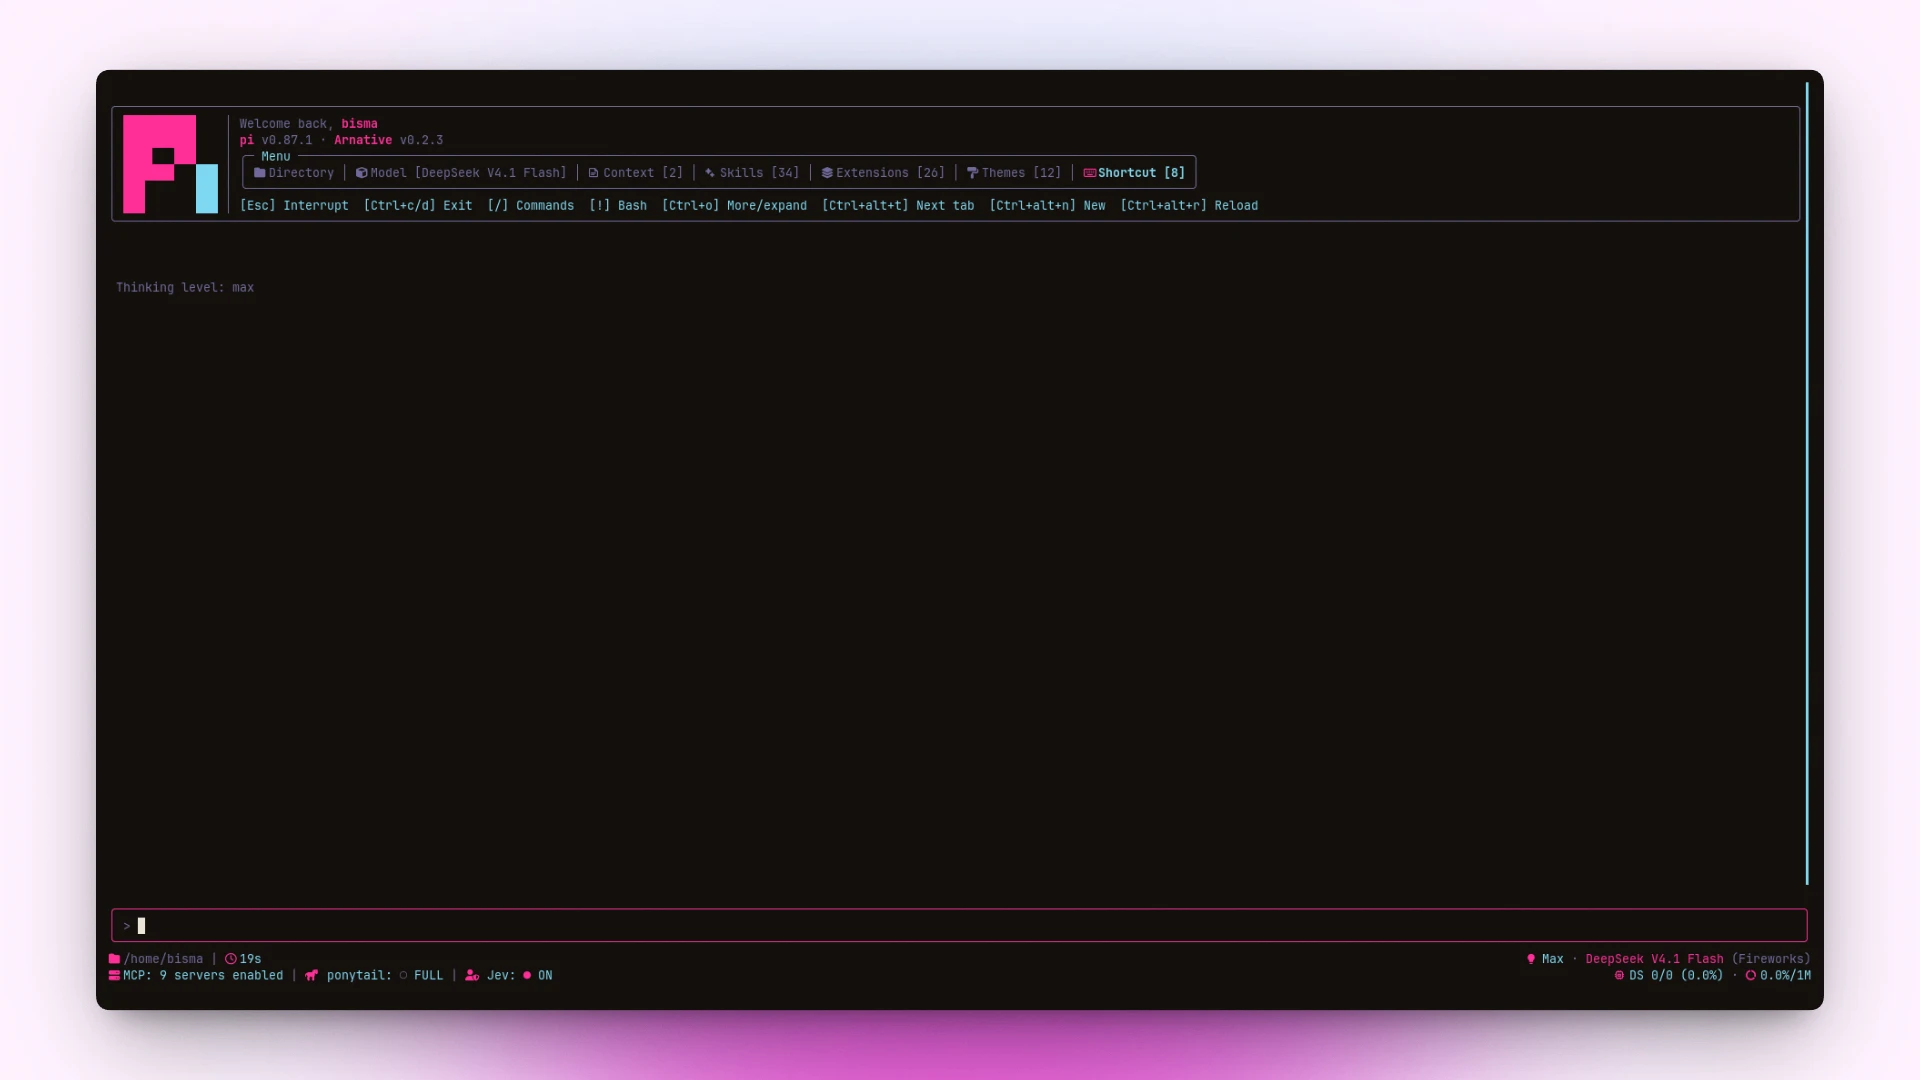
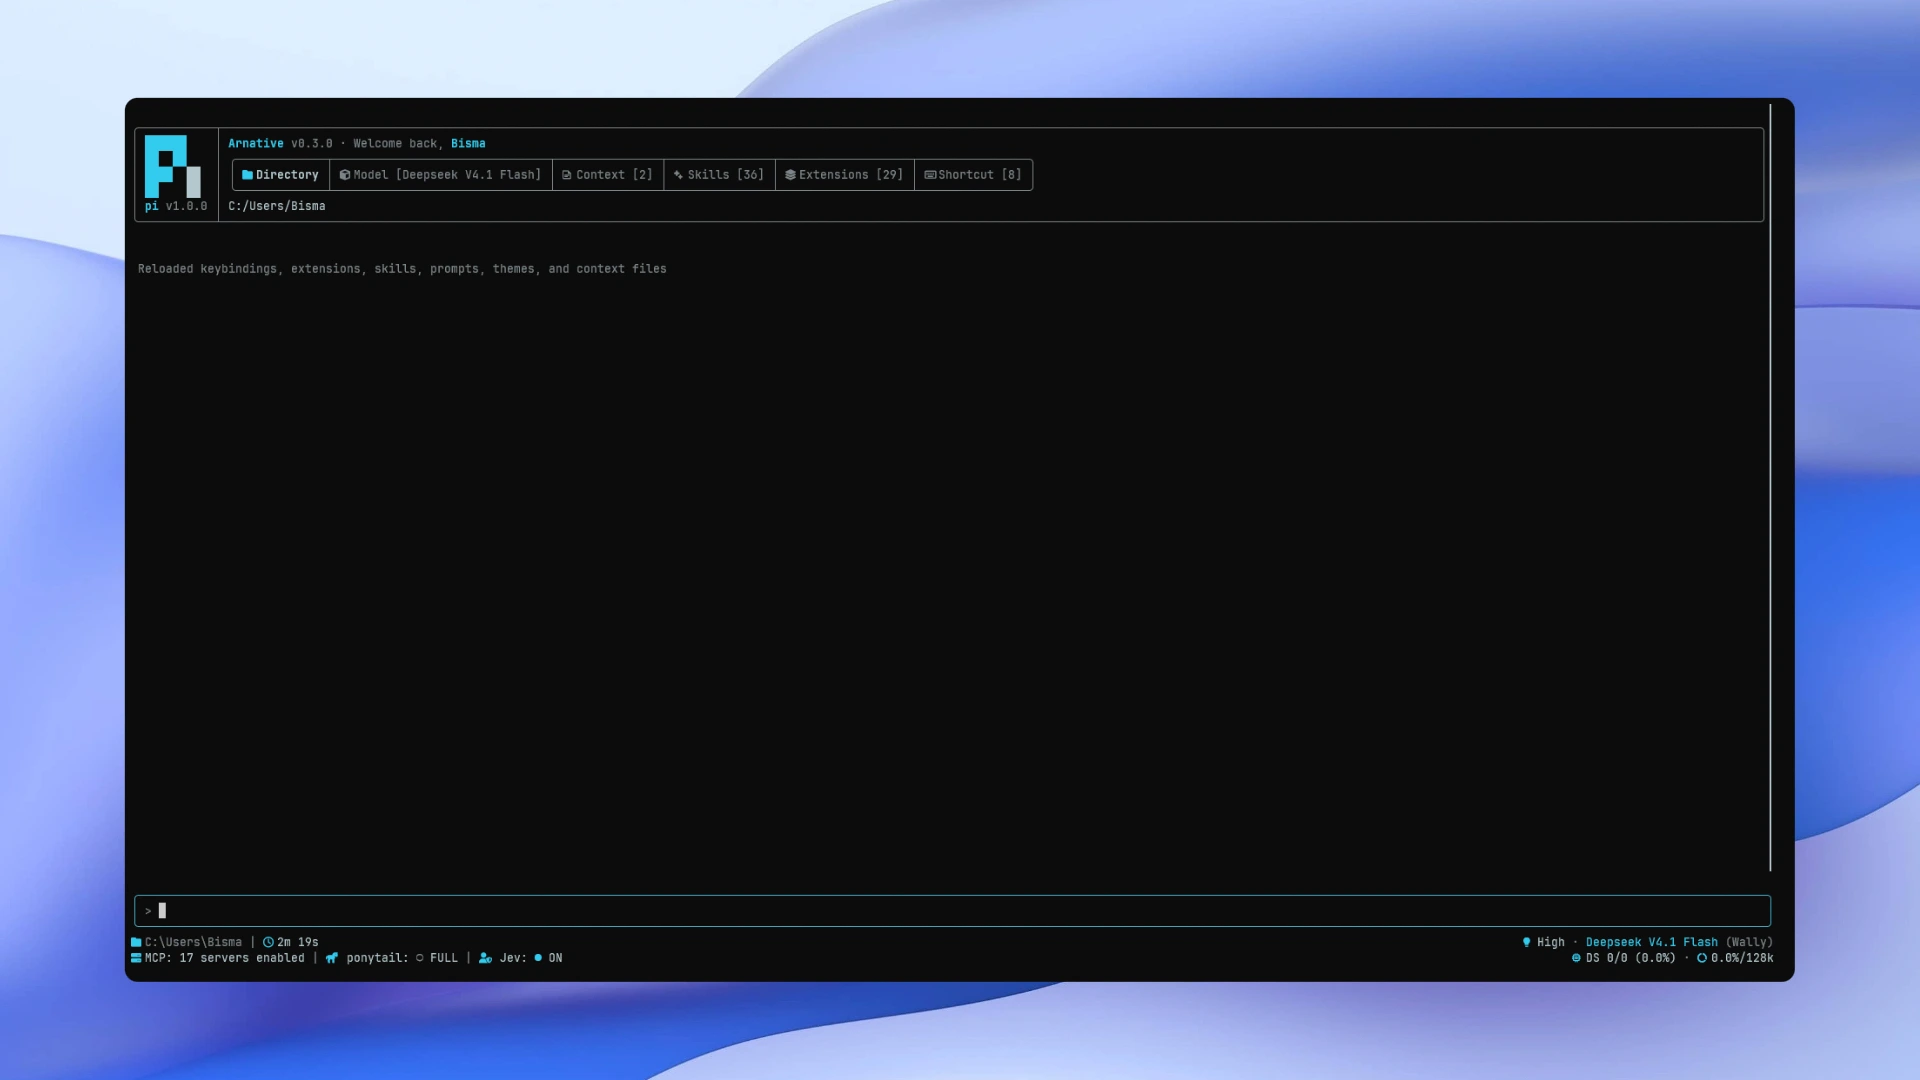
docs: lead package card with tagline and use pi-arnative.webp as README hero (#5)
- README drops the full-width banner.webp <img>; banner.webp now appears only
  on pi.dev/packages through pi.image
- package.json description starts with the README tagline followed by the
  capability summary, matching the /arnative-pi manifest standard
- assets/pi-arnative.webp refreshed (1920x1080)

diff --git a/README.md b/README.md
@@ -6,8 +6,6 @@ Refined aesthetics. Cohesive tools. Built for Pi.
 [![badge](https://shieldcn.dev/npm/@bismawy/pi-arnative.svg?variant=outline&size=xs)](https://www.npmjs.com/package/@bismawy/pi-arnative)
 [![license](https://shieldcn.dev/github/bismawy/pi-arnative/license.svg?variant=outline&size=xs)](https://github.com/bismawy/pi-arnative)
 
-<img src="https://raw.githubusercontent.com/bismawy/pi-arnative/main/assets/banner.webp" alt="Arnative" width="100%">
-
 ![Arnative: tabbed header, rounded tool boxes, transcript clock and /usage dashboard](https://raw.githubusercontent.com/bismawy/pi-arnative/main/assets/pi-arnative.webp)
 
 ## Overview

diff --git a/CHANGELOG.md b/CHANGELOG.md
@@ -1,5 +1,11 @@
 # Changelog
 
+## [Unreleased]
+
+### Changed
+- README shows only `assets/pi-arnative.webp` as the hero image; the full-width `assets/banner.webp` stays reserved for the pi.dev package page via `pi.image`.
+- `package.json` `description` now leads with the README tagline ("Refined aesthetics. Cohesive tools. Built for Pi.") followed by the capability summary, per the `/arnative-pi` manifest standard — pi.dev/packages renders this field verbatim as the package card description.
+
 ## [0.3.0] - 2026-10-03
 
 ### Fixed
